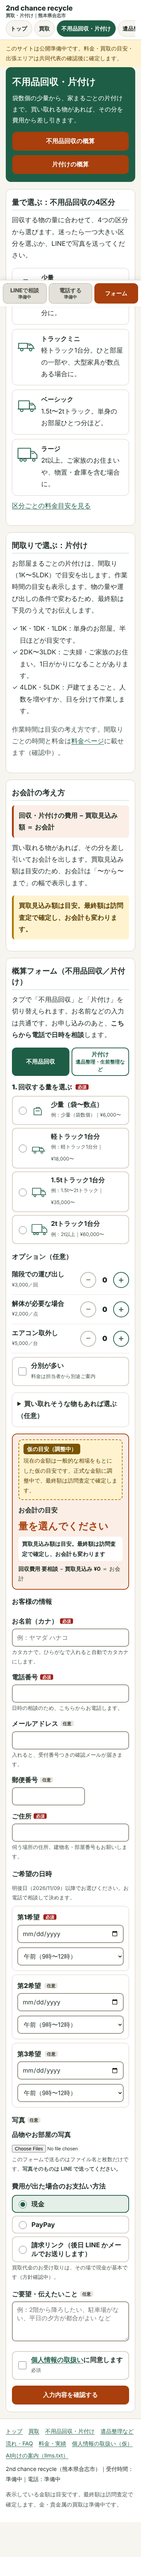
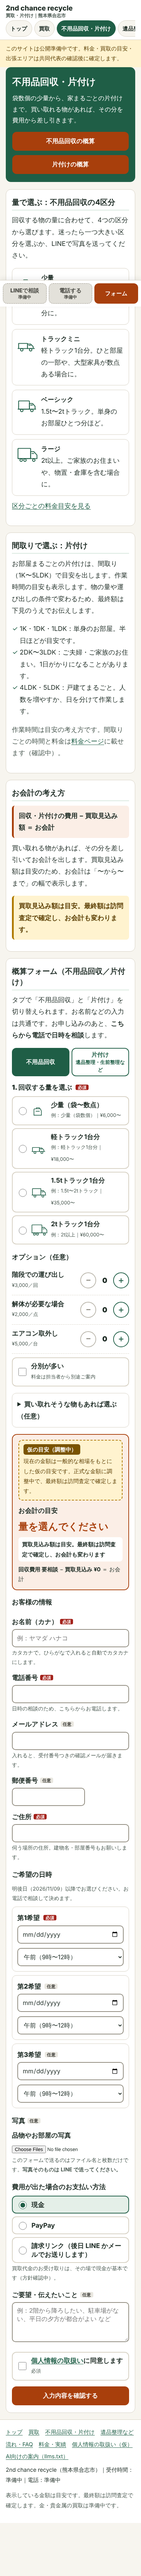
フォーム入力中も固定バーに概算を常時表示

Changed region(s): [[0.0308, 0.0, 0.9231, 0.9997]]

diff --git a/js/form.js b/js/form.js
@@ -2,6 +2,7 @@
 // 入力 → 確認画面 → 送信 → 受付番号。GAS_URL が空なら送信ボタンは「準備中」で押せず、入力と概算は画面に残す。
 import { CONFIG } from "./config.js";
 import * as Q from "./quote-core.js";
+import { yen, fmtRange, estimateValueText, stickyEstimate } from "./estimate-text.js";
 
 const FORM_NAMES = { A: "出張買取", B: "不用品回収", C: "片付け（遺品整理・生前整理など）" };
 const YEAR_LABELS = { within: "目安年数以内", over: "目安年数を超えている", unknown: "わからない" };
@@ -18,10 +19,7 @@ const OPTIONS_FOR = {
 };
 
 const esc = (s) => String(s == null ? "" : s).replace(/[&<>"']/g, (c) => ({ "&": "&amp;", "<": "&lt;", ">": "&gt;", '"': "&quot;", "'": "&#39;" }[c]));
-const yen = (n) => "¥" + Math.abs(n).toLocaleString("ja-JP");
 const isNum = (v) => typeof v === "number" && isFinite(v);
-const fmtBill = (n) => (n < 0 ? "お受け取り " + yen(n) : yen(n));
-const fmtRange = (a, b) => (a === b ? fmtBill(a) : fmtBill(a) + " 〜 " + fmtBill(b));
 const toHalf = (s) => String(s || "").replace(/[０-９]/g, (c) => String.fromCharCode(c.charCodeAt(0) - 0xfee0));
 const toKata = (s) => String(s || "").replace(/[ぁ-ゖ]/g, (c) => String.fromCharCode(c.charCodeAt(0) + 0x60));
 
@@ -134,22 +132,23 @@ ${optionRows("C")}${buybackBlock()}`;
     ? `<div class="provisional-band" role="note"><b>仮の目安（調整中）</b><span>${esc(prices.provisional_note || "現在の金額は仮の目安です。")}</span></div>`
     : "";
 
-  function estimateHTML() {
-    return band + estimateBody();
+  // B は量・C は間取りを選んだか（A は品目の有無を r から見る）
+  const chosenNow = () => (st.form === "B" ? !!st.tier : st.form === "C" ? !!st.layout : true);
+  function estimateHTML(r) {
+    return band + estimateBody(r);
   }
-  function estimateBody() {
-    const r = calc();
+  function estimateBody(r) {
     const bb = st.form === "A" ? r.buyback : r.buyback_detail;
     const hasItems = bb.lines.length > 0;
     const lines = bb.lines.map((l) => `<li>${esc(l.name)} ×${l.qty}（${YEAR_LABELS[l.year]}・${esc((COND_LABELS[l.condition] || "").replace(/（.*/, ""))}）：${l.undetermined ? "要相談" : l.year === "over" ? "0円（回収扱い）" : "最大 " + yen(l.max)}${l.note && !l.undetermined && l.year !== "over" ? "　※" + esc(l.note) : ""}</li>`).join("");
     const und = '<p class="est-break">金額が決まるまで「要相談」と表示しています。LINEで写真を送っていただければ目安をお伝えします。</p>';
     if (st.form === "A") {
-      const val = !hasItems ? "品目を選んでください" : r.undetermined ? "要相談" : r.max === 0 ? "0円（回収扱い）" : "0円 〜 " + yen(r.max);
+      const val = estimateValueText("A", r);
       return `<div class="est-row"><span class="est-label">買取見込み（目安）</span><span class="est-value" data-est-value>${val}</span><span class="est-note">買取見込み額は目安。最終額は訪問査定で確定します</span></div>
 ${hasItems ? `<ul>${lines}</ul>` : ""}${hasItems && r.undetermined ? und : ""}${bb.lines.some((l) => l.year === "over") ? '<p class="est-break">年式の目安を超えた家電は買取ではなく回収扱いです。回収費用は<a href="../kataduke/#form-b">不用品回収</a>でご確認ください。</p>' : ""}`;
     }
-    const chosen = st.form === "B" ? !!st.tier : !!st.layout;
-    const val = !chosen ? (st.form === "B" ? "量を選んでください" : "間取りを選んでください") : r.undetermined ? "要相談" : fmtRange(r.min, r.max);
+    const chosen = chosenNow();
+    const val = estimateValueText(st.form, r, chosen);
     const cost = r.cost.undetermined ? "要相談" : yen(r.cost.amount) + "〜";
     const bbText = !hasItems ? "¥0" : bb.undetermined ? "要相談" : bb.max === 0 ? "¥0" : "¥0〜" + yen(bb.max).slice(1);
     const opLines = r.lines.filter((l) => l.consult || l.unit !== undefined).map((l) => `<li>${esc(l.name)}${l.qty > 1 ? " ×" + l.qty : ""}：${l.consult ? "別途ご案内" : l.undetermined ? "要相談" : yen(l.amount)}</li>`).join("");
@@ -209,11 +208,58 @@ ${dateBlock(1)}${dateBlock(2)}${dateBlock(3)}
 <div class="confirm card" id="q-confirm" hidden></div>
 <div id="q-done" hidden></div>`;
 
+  // ---------- 固定バーの概算パネル ----------
+  // フォームが画面に入ったら固定バーの上段に「買取見込み／お会計の目安：金額（仮の目安）」を1行で出す。
+  // タップで概算の箱（内訳）へ。確認画面・受付後も金額は残す。
+  function setupSticky() {
+    const bar = document.querySelector(".cta-bar");
+    if (!bar) return { update() {} };
+    const btn = document.createElement("button");
+    btn.type = "button";
+    btn.className = "cta-est";
+    btn.id = "cta-est";
+    btn.hidden = true;
+    btn.setAttribute("aria-controls", "q-est");
+    btn.innerHTML = '<span class="cta-est-label" data-sticky-label></span><span class="cta-est-value" data-sticky-value></span><span class="cta-est-prov" data-sticky-prov hidden>（仮の目安）</span>';
+    bar.insertBefore(btn, bar.firstChild);
+    document.body.classList.add("has-cta-est");
+    const reduce = window.matchMedia && window.matchMedia("(prefers-reduced-motion: reduce)").matches;
+    btn.addEventListener("click", () => {
+      // 入力中は概算の箱、確認画面・受付後はそれぞれの箱へ
+      const target = [root.querySelector("#q-done"), root.querySelector("#q-confirm"), root.querySelector("#q-est")].find((x) => x && !x.hidden && !(x.closest("form") || {}).hidden) || root;
+      target.scrollIntoView({ behavior: reduce ? "auto" : "smooth", block: "start" });
+    });
+    if ("IntersectionObserver" in window) {
+      // フォームが見え始めたら出す。フォームより下（フッターなど）までスクロールしても出したままにする
+      new IntersectionObserver((entries) => {
+        const e = entries[entries.length - 1];
+        btn.hidden = !(e.isIntersecting || e.boundingClientRect.bottom < 0);
+      }).observe(root);
+    } else btn.hidden = false;
+    const lbl = btn.querySelector("[data-sticky-label]");
+    const val = btn.querySelector("[data-sticky-value]");
+    const prov = btn.querySelector("[data-sticky-prov]");
+    return {
+      update(s) {
+        lbl.textContent = s.label + "：";
+        val.textContent = s.value;
+        prov.hidden = !s.provisional;
+        btn.setAttribute("aria-label", `${s.label} ${s.value}${s.provisional ? "（仮の目安）" : ""}。タップで内訳へ`);
+      }
+    };
+  }
+
   const form = root.querySelector("form");
   const panel = root.querySelector("#q-panel");
   const est = root.querySelector("#q-est");
   const renderPanel = () => { panel.innerHTML = panelHTML(); };
-  const renderEst = () => { est.innerHTML = estimateHTML(); };
+  // 概算は1回だけ計算し、概算の箱と固定バーの概算パネルに同じ結果を渡す（二重計算のズレを作らない）
+  const sticky = setupSticky();
+  const renderEst = () => {
+    const r = calc();
+    est.innerHTML = estimateHTML(r);
+    sticky.update(stickyEstimate(st.form, r, chosenNow()));
+  };
   renderPanel();
   renderEst();
 

diff --git a/css/site.css b/css/site.css
@@ -120,6 +120,18 @@ table.price td.num { text-align: right; white-space: nowrap; font-weight: 800; }
 .cta-bar { position: fixed; left: 0; right: 0; bottom: 0; z-index: 50; background: rgba(255,255,255,.97); border-top: 1px solid var(--line); box-shadow: 0 -4px 14px rgba(0,0,0,.08); padding: 8px 8px calc(8px + env(safe-area-inset-bottom)); }
 .cta-bar ul { list-style: none; margin: 0 auto; padding: 0; max-width: 720px; display: grid; grid-template-columns: repeat(3, 1fr); gap: 6px; }
 .cta-bar .btn { width: 100%; min-height: 56px; padding: 6px 4px; font-size: .95rem; flex-direction: column; gap: 0; }
+/* 固定バーの概算パネル（フォームのあるページだけ。form.js が差し込み、フォームが見え始めたら出す） */
+body.has-cta-est { --cta-est-h: 50px; padding-bottom: calc(var(--cta-h) + var(--cta-est-h) + 24px + env(safe-area-inset-bottom)); }
+html:has(body.has-cta-est) { scroll-padding-bottom: calc(var(--cta-h) + var(--cta-est-h, 50px) + 16px + env(safe-area-inset-bottom)); }
+.cta-est { display: flex; flex-wrap: wrap; align-items: center; justify-content: center; column-gap: 2px; width: 100%; max-width: 720px; min-height: 44px; margin: 0 auto 6px; padding: 4px 6px; border: 2px solid var(--accent); border-radius: 10px; background: var(--accent-soft); color: var(--ink); font-family: inherit; font-size: 16px; line-height: 1.3; text-align: center; cursor: pointer; animation: cta-est-in .2s ease-out; }
+.cta-est[hidden] { display: none; }
+.cta-est:hover { filter: brightness(.98); }
+.cta-est-label { font-weight: 800; white-space: nowrap; }
+.cta-est-value { font-weight: 900; font-size: 16px; letter-spacing: -.01em; color: var(--accent); white-space: nowrap; }
+.cta-est-prov { font-weight: 700; letter-spacing: -.04em; color: var(--warn-ink); white-space: nowrap; }
+.cta-est-prov[hidden] { display: none; }
+@keyframes cta-est-in { from { opacity: 0; transform: translateY(6px); } to { opacity: 1; transform: none; } }
+@media (prefers-reduced-motion: reduce) { .cta-est { animation: none; } }
 
 /* フッター */
 .site-footer { border-top: 1px solid var(--line); background: var(--card); padding: 20px 0; font-size: .95rem; }

diff --git a/js/estimate-text.js b/js/estimate-text.js
@@ -1,0 +1,26 @@
+// 概算の「金額の言い方」（純粋関数）。概算の箱・固定バーの概算パネル・確認画面が同じ言い方を使う。
+// 計算そのものは quote-core.js（quoteFromInput の返り値 r を受け取るだけで、ここでは計算しない）。
+export const yen = (n) => "¥" + Math.abs(n).toLocaleString("ja-JP");
+export const fmtBill = (n) => (n < 0 ? "お受け取り " + yen(n) : yen(n));
+export const fmtRange = (a, b) => (a === b ? fmtBill(a) : fmtBill(a) + " 〜 " + fmtBill(b));
+
+// フォームごとの見出し（A は買取、B/C は回収・片付けの費用から買取見込みを差し引いたお会計）
+export const ESTIMATE_LABEL = { A: "買取見込み", B: "お会計の目安", C: "お会計の目安" };
+
+// 概算の値の文字列。form: "A"|"B"|"C"、r: quoteFromInput の返り値、
+// chosen: B は量・C は間取りを選んだか（A では使わない）
+export function estimateValueText(form, r, chosen) {
+  if (form === "A") {
+    const hasItems = r.buyback.lines.length > 0;
+    if (!hasItems) return "品目を選んでください";
+    if (r.undetermined) return "要相談";
+    return r.max === 0 ? "0円（回収扱い）" : "0円 〜 " + yen(r.max);
+  }
+  if (!chosen) return form === "B" ? "量を選んでください" : "間取りを選んでください";
+  return r.undetermined ? "要相談" : fmtRange(r.min, r.max);
+}
+
+// 固定バーの概算パネル用：{ label, value, provisional }
+export function stickyEstimate(form, r, chosen) {
+  return { label: ESTIMATE_LABEL[form], value: estimateValueText(form, r, chosen), provisional: !!r.provisional };
+}

diff --git a/README.md b/README.md
@@ -16,7 +16,8 @@
 | `css/site.css` | 見た目（モバイル優先・文字大きめ・コントラスト 4.5 以上） |
 | `js/config.js` | 設定 1か所（サイト名・URL・LINE・電話・GAS・営業時間） |
 | `js/quote-core.js` | 概算の式（純粋関数）。画面・GAS・AI 向け API が同じ式を使う |
-| `js/form.js` | フォームの画面（入力→確認→送信→受付番号） |
+| `js/form.js` | フォームの画面（入力→確認→送信→受付番号）。フォームが見えたら固定バーの上段に概算パネル |
+| `js/estimate-text.js` | 概算の金額の言い方（純粋関数）。概算の箱と固定バーの概算パネルが同じ文字列を使う |
 | `data/*.json` | 価格表・品目・エリア・FAQ・実績（公開。個人情報は入れない） |
 | `assets/icons/` | 品目9つ＋トラック4サイズの線画アイコン（仮置き） |
 | `assets/items/` | 写真の置き場（`assets/items/README.md`） |
